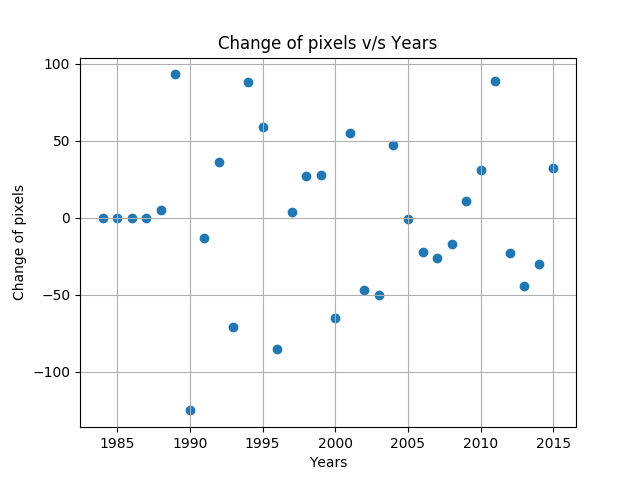
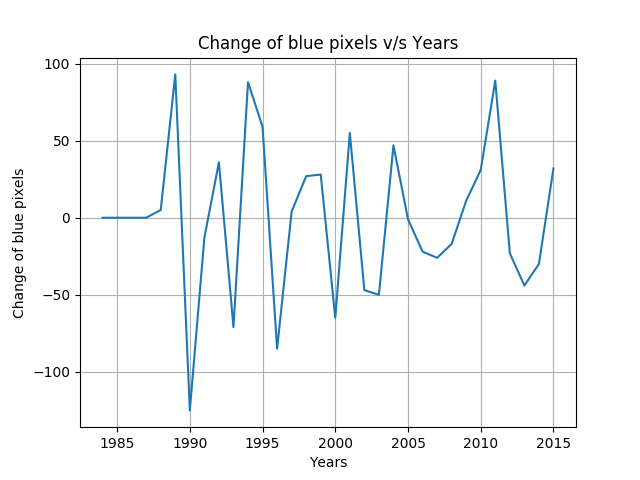
Updated code to analyze the data

diff --git a/Files/image_processing_2.py b/Files/image_processing_2.py
@@ -40,7 +40,7 @@ while(k<2016):
     year = np.array([k])
     years = np.concatenate((years, year))
 
-    # Increament k to go to next year
+    # Increament k to go to the image of next year
     k = k + 1
 
 # Maximum number of blue pixels and its corresponding year
@@ -59,8 +59,9 @@ for i in range(0,count_blue.size-1):
     value = np.array([ans])
     change_blue = np.concatenate((change_blue,value))
 
+# Maximum change in blue pixels was observed in which year
 maximum_index_change_blue = np.argmax(change_blue)
-print(str(np.amax(change_blue)) + ' ' + str(years[maximum_index_change_blue]))
+print('Maximum change in blue pixels was observed in year : ' + str(np.amax(change_blue)) + ' ' + str(years[maximum_index_change_blue]))
 
 value = np.array([count_blue.size])
 change_blue = np.concatenate((change_blue,value))
@@ -81,8 +82,9 @@ for i in range(0,count_green.size-1):
     value = np.array([ans])
     change_green = np.concatenate((change_green,value))
 
+# Maximum change in green pixels was observed in which year
 maximum_index_change_green = np.argmax(change_green)
-print(str(np.amax(change_green)) + ' ' + str(years[maximum_index_change_green]))
+print('Maximum change in green pixels was observed in year : ' + str(np.amax(change_green)) + ' ' + str(years[maximum_index_change_green]))
 
 value = np.array([count_blue.size])
 change_green = np.concatenate((change_green,value))
@@ -95,30 +97,43 @@ plt.xlabel('Years')
 plt.grid(True)
 plt.legend(loc='upper right')
 plt.title('Count of pixels v/s Years')
+plt.savefig('Graphs/Graph_1.png')
 plt.show()
 
-# Plot the scatter plot to show the difference between count of pixels in consecutive years
-plt.scatter(years,change_blue)
-plt.ylabel('Change of pixels')
+# Plot the line graph to show the difference between count of blue pixels in consecutive years
+plt.plot(years,change_blue)
+plt.ylabel('Change of blue pixels')
 plt.xlabel('Years')
 plt.grid(True)
-plt.title('Change of pixels v/s Years')
+plt.title('Change of blue pixels v/s Years')
+plt.savefig('Graphs/Graph_2.png')
 plt.show()
 
-# Plot the scatter plot to show the difference between count of pixels in consecutive years
-plt.scatter(years,change_green)
-plt.ylabel('Change of pixels')
+# Plot the line graph to show the difference between count of green pixels in consecutive years
+plt.plot(years,change_green)
+plt.ylabel('Change of green pixels')
 plt.xlabel('Years')
 plt.grid(True)
-plt.title('Change of pixels v/s Years')
+plt.title('Change of green pixels v/s Years')
+plt.savefig('Graphs/Graph_3.png')
 plt.show()
 
-# Plot the scattered graph using plt
-plt.scatter(years,count_blue)
-plt.ylabel('Count of pixels')
+# Plot the line graph to show the trend of overall blue pixels in the image
+plt.plot(years,count_blue)
+plt.ylabel('Count of blue pixels')
 plt.xlabel('Years')
 plt.grid(True)
-plt.title('Count of pixels v/s Years')
+plt.title('Count of blue pixels v/s Years')
+plt.savefig('Graphs/Graph_4.png')
+plt.show()
+
+# Plot the line graph to show the trend of overall blue pixels in the image
+plt.plot(years,count_green)
+plt.ylabel('Count of green pixels')
+plt.xlabel('Years')
+plt.grid(True)
+plt.title('Count of green pixels v/s Years')
+plt.savefig('Graphs/Graph_5.png')
 plt.show()
 
 # Conclusion : From the graph one can see that number of blue pixels decrease and green increases although change in green pixels is not significant
